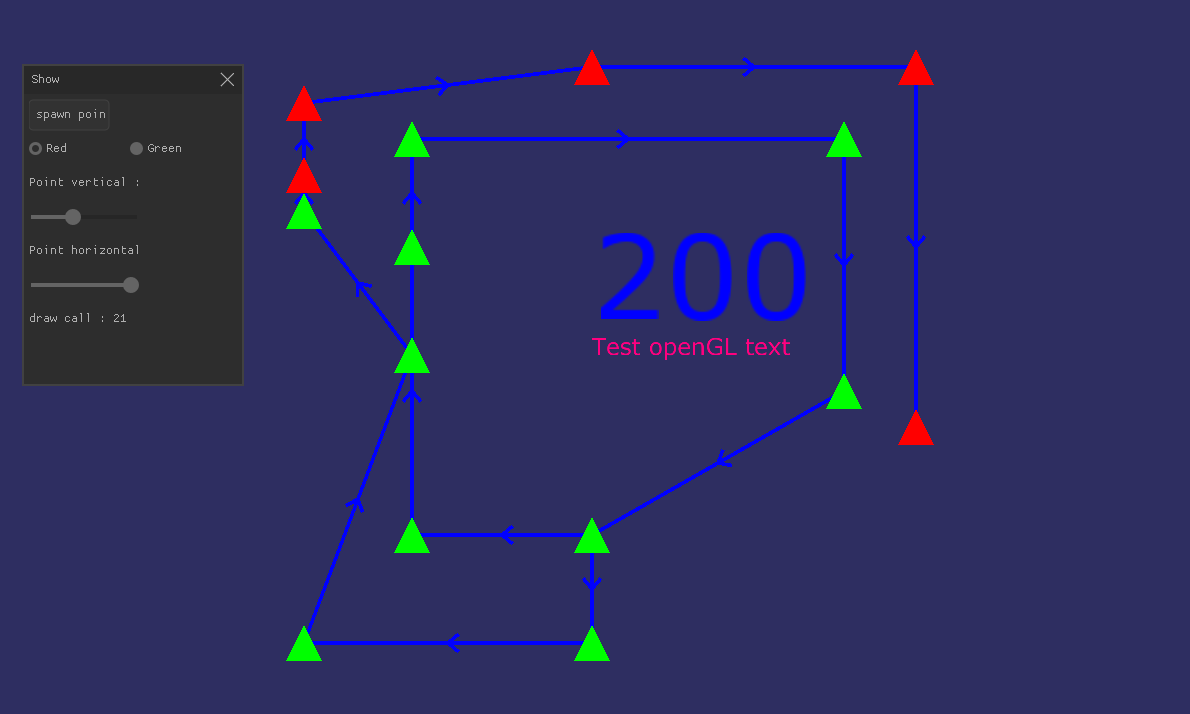
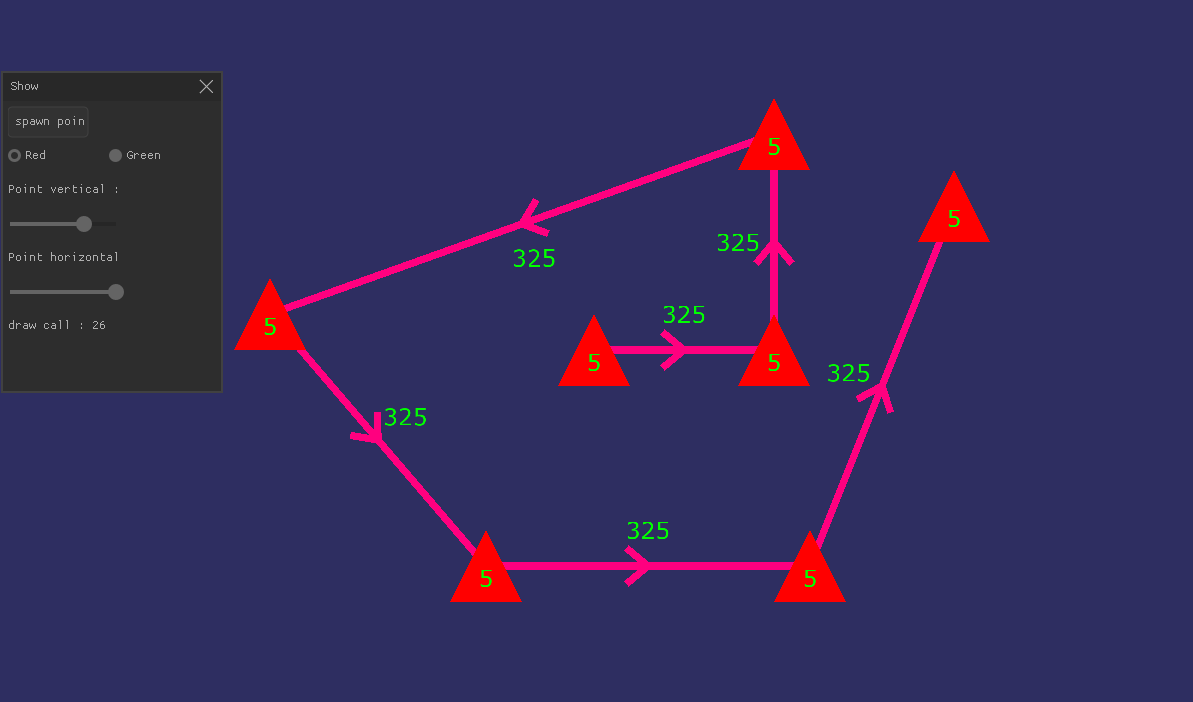
feat: doc image

diff --git a/RandomGraphsParkour/src/Editor/GraphLoop.c b/RandomGraphsParkour/src/Editor/GraphLoop.c
@@ -52,7 +52,7 @@ void RGP_EditorUpdate(RGP_EditorScene_t* scene)
         {
             .position1 = &scene->graphPoints[i - 1].position,
             .position2 = &scene->graphPoints[i].position,
-            .width = 0.01f
+            .width = 0.02f
         };
         RGP_RendererDrawLine(&app->rdrD, &data, &color1, 1);
     }
@@ -65,7 +65,7 @@ void RGP_EditorUpdate(RGP_EditorScene_t* scene)
         RGP_PointData_t data =
         {
             .position = &scene->graphPoints[i].position,
-            .size = 0.3f
+            .size = 0.2f
         };
         RGP_RendererDrawPoint(&app->rdrD, &data, &scene->graphPoints[i].color);
     }
@@ -75,9 +75,9 @@ void RGP_EditorUpdate(RGP_EditorScene_t* scene)
         RGP_PointData_t pointData =
         {
             .position = &scene->graphPoints[i].position,
-            .size = 0.3f
+            .size = 0.2f
         };
-        RGP_RendererDrawPointCenteredText(&app->rdrD, NULL, &pointData, &color2, "5", 0.002f);
+        RGP_RendererDrawPointCenteredText(&app->rdrD, NULL, &pointData, &color2, "5", 0.001f);
 
         if(i > 0)
         {
@@ -85,9 +85,9 @@ void RGP_EditorUpdate(RGP_EditorScene_t* scene)
             {
                 .position1 = &scene->graphPoints[i - 1].position,
                 .position2 = &scene->graphPoints[i].position,
-                .width = 0.3f
+                .width = 0.2f
             };
-            RGP_RendererDrawLineCenteredText(&app->rdrD, NULL, &lineData, &color2, "325", 0.002f);
+            RGP_RendererDrawLineCenteredText(&app->rdrD, NULL, &lineData, &color2, "325", 0.001f);
         }
     }
 
